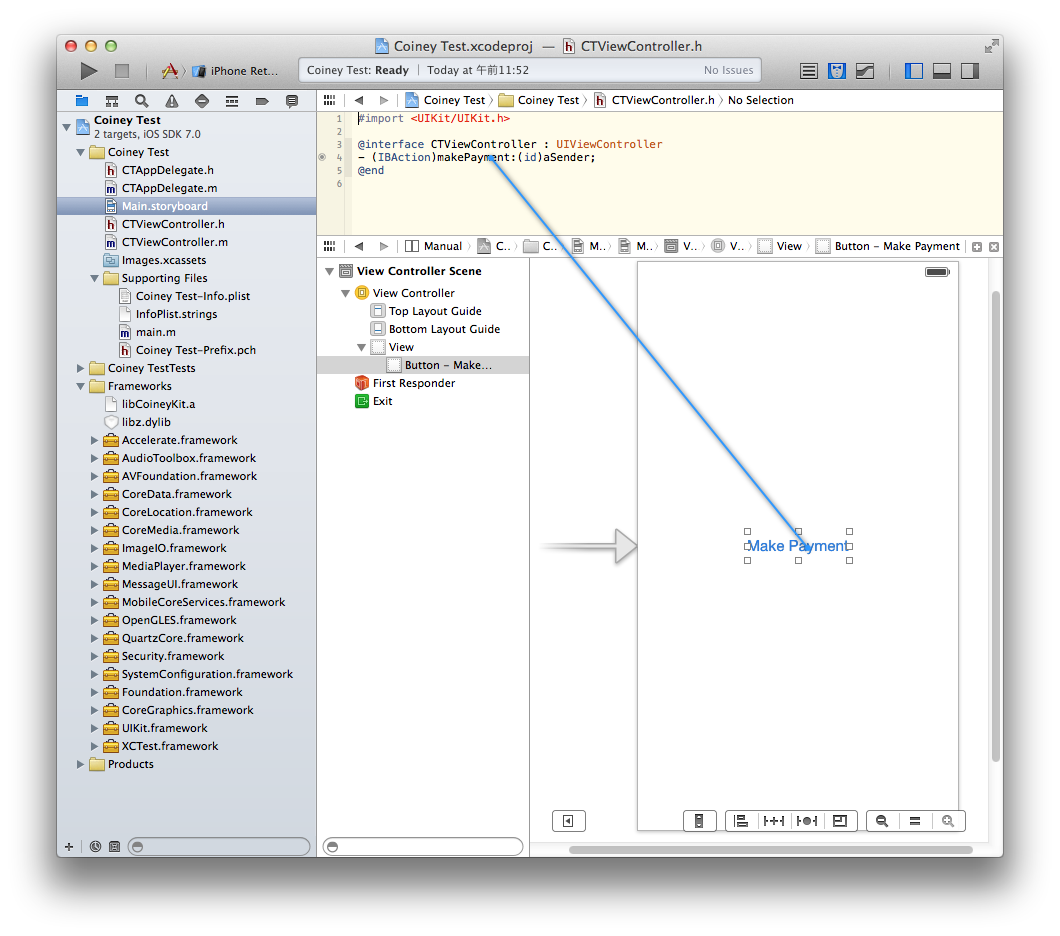
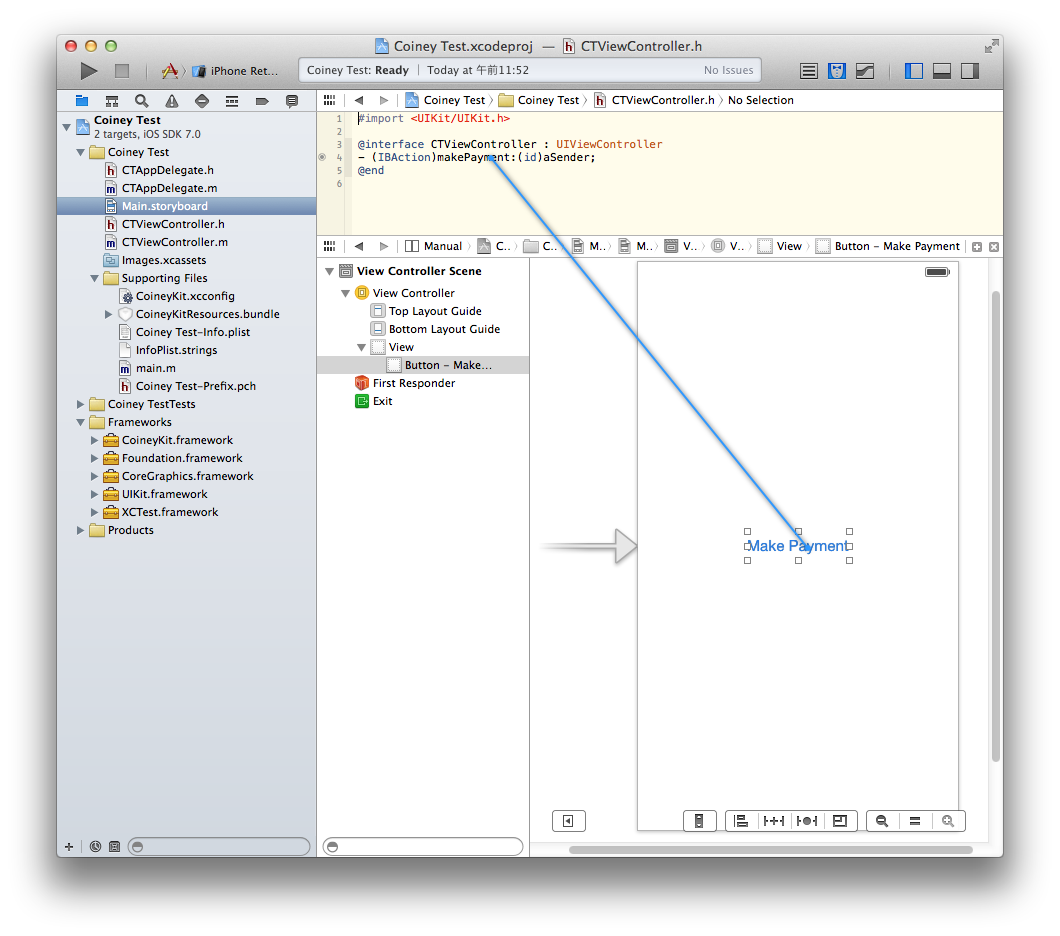
Updated readme for CoineyKit.framework

Changed region(s): [[0.0623, 0.3098, 0.2802, 0.8365]]

diff --git a/README.md b/README.md
@@ -21,14 +21,11 @@ Now that your project is created, copy the contents of `CoineyKit.zip` to your p
 
 ![Folder hierarchy](readme_images/folder-hierarchy.png)
 
-The next step is to add `CoineyKitResources.bundle`, `libCoineyKit.a` and the frameworks used by CoineyKit to your project. 
+The next step is to add `CoineyKitResources.bundle` and `CoineyKit.framework` to your project.
 
-![Required frameworks](readme_images/required-frameworks.png)
+![Build settings](readme_images/build-settings.png)
 
-Now you're almost ready to make use of CoineyKit, you just need to update your target's build settings to match the below screenshots:
-
-![Linker flags](readme_images/ldflags.png)
-![Search paths](readme_images/searchpaths.png)
+Now you're almost ready to make use of CoineyKit, you just need to update your build settings with CoineyKit.xcconfig, as shown in the above screenshot.
 
 
 ## Making our first payment
@@ -44,7 +41,7 @@ Open up `CTViewController.h` and make it look like:
 And `CTViewController.m`:
 
     #import "CTViewController.h"
-    #import <CoineyKit/CoineyKit.h>
+    @import CoineyKit;
     
     @implementation CTViewController
     
@@ -59,7 +56,7 @@ And `CTViewController.m`:
 
 This is all that's required for the most basic use case. We just need to hook up a button to our `makePayment:` method, and we're ready to go.
 
-![Search paths](readme_images/action-connection.png)
+![Action connection](readme_images/action-connection.png)
 
 Now if we run the application it should appear like below:
 
@@ -74,7 +71,7 @@ When embedding CoineyKit in your application, you'll most likely want to tell Co
     #import <UIKit/UIKit.h>
     
     @interface CTViewController : UIViewController
-    @property IBOutlet UITextField *productNameField, *productPriceField;  // ←
+    @property IBOutlet UITextField *productNameField, *productPriceField;
     
     - (IBAction)makePayment:(id)aSender;
     @end
@@ -89,14 +86,14 @@ When embedding CoineyKit in your application, you'll most likely want to tell Co
     - (IBAction)makePayment:(id)aSender
     {
         // Create a line item to pre-populate the Coiney controller with.
-        NSString *name = _productNameField.text;                          // ←
-        int price = [_productPriceField.text intValue];                   // ←
+        NSString *name = _productNameField.text;
+        int price = [_productPriceField.text intValue];
         
-        CYLineItem *lineItem = [CYLineItem itemWithAmount:price                       // ←
-                                                 currency:CYCurrencyJPY name:name];   // ←
+        CYLineItem *lineItem = [CYLineItem itemWithAmount:price
+                                                 currency:CYCurrencyJPY name:name];
         
         // Create an instance of the Coiney payment controller.
-        CYCoineyViewController * coineyController = [[CYCoineyViewController alloc] initWithLineItems:@[lineItem]]; // ←
+        CYCoineyViewController * coineyController = [[CYCoineyViewController alloc] initWithLineItems:@[lineItem]];
         // Present it on top of the current controller.
         [self presentViewController:coineyController animated:YES completion:nil];
     }
@@ -114,48 +111,7 @@ To know the status of the transaction you simply make yourself the delegate of y
 `CTViewController.m`:
 
     #import "CTViewController.h"
-    #import <CoineyKit/CoineyKit.h>
-    
-    @interface CTViewController () <CYCoineyViewControllerDelegate>  // ←
-    @end                                                             // ←
-    
-    @implementation CTViewController
-    
-    - (IBAction)makePayment:(id)aSender
-    {
-        // Create a line item to pre-populate the Coiney controller with.
-        NSString *name = _productNameField.text;
-        int price = [_productPriceField.text intValue];
-        
-        CYLineItem *lineItem = [CYLineItem itemWithAmount:price
-                                                 currency:CYCurrencyJPY name:name];
-        
-        // Create an instance of the Coiney payment controller.
-        CYCoineyViewController * coineyController = [[CYCoineyViewController alloc] initWithLineItems:@[lineItem]];
-        coineyController.delegate = self; // ←
-        // Present it on top of the current controller.
-        [self presentViewController:coineyController animated:YES completion:nil];
-    }
-    
-    - (void)coineyViewController:(CYCoineyViewController *)aController  // ←
-          didCompleteTransaction:(CYTransaction *)aTransaction          // ←
-    {
-        NSLog(@"Completed transaction!: %@", aTransaction);             // ←
-    }
-    
-    - (void)coineyViewControllerDidCancel:(CYCoineyViewController *)aController  // ←
-    {
-        NSLog(@"Cancelled payment.");                                            // ←
-    }
-
-## Look up a transaction
-
-You can use a transaction's unique identifier to query Coiney for the corresponding CYTransaction object.
-
-`CTViewController.m`:
-
-    #import "CTViewController.h"
-    #import <CoineyKit/CoineyKit.h>
+    @import CoineyKit;
     
     @interface CTViewController () <CYCoineyViewControllerDelegate>
     @end
@@ -182,15 +138,109 @@ You can use a transaction's unique identifier to query Coiney for the correspond
           didCompleteTransaction:(CYTransaction *)aTransaction
     {
         NSLog(@"Completed transaction!: %@", aTransaction);
+    }
+    
+    - (void)coineyViewControllerDidCancel:(CYCoineyViewController *)aController
+    {
+    	aController dismissViewControllerAnimated:YES completion:nil];
+        NSLog(@"Cancelled payment.");
+    }
+
+## Look up a transaction
+
+You can use a transaction's unique identifier to query Coiney for the corresponding CYTransaction object.
+
+`CTViewController.m`:
+
+    #import "CTViewController.h"
+    @import CoineyKit;
+    
+    @interface CTViewController () <CYCoineyViewControllerDelegate>
+    @end
+    
+    @implementation CTViewController
+    
+    - (IBAction)makePayment:(id)aSender
+    {
+        // Create a line item to pre-populate the Coiney controller with.
+        NSString *name = _productNameField.text;
+        int price = [_productPriceField.text intValue];
         
-        CYTransactionLookupBlock completionBlock = ^(id<CYTransaction> t, NSError *err) {
+        CYLineItem *lineItem = [CYLineItem itemWithAmount:price
+                                                 currency:CYCurrencyJPY name:name];
+        
+        // Create an instance of the Coiney payment controller.
+        CYCoineyViewController * coineyController = [[CYCoineyViewController alloc] initWithLineItems:@[lineItem]];
+        coineyController.delegate = self;
+        // Present it on top of the current controller.
+        [self presentViewController:coineyController animated:YES completion:nil];
+    }
+    
+    - (void)coineyViewController:(CYCoineyViewController *)aController
+          didCompleteTransaction:(CYTransaction *)aTransaction
+    {
+        NSLog(@"Completed transaction!: %@", aTransaction);
+
+        CYLookUpTransaction(aTransaction.identifier, ^(id<CYTransaction> t, NSError *err) {
         	if(t)
         		NSLog(@"Transaction found: %@", t);
         	else
         		NSLog(@"Transaction not found: %@", err);
-        };
-        CYLookUpTransaction(aTransaction.identifier, completionBlock);
+        });
     }
+    
+## Show the details of a transaction
+
+You can use a transaction ID to bring up its detail view.  The view can contain a refund button if refunding should be allowed.
+
+`CTViewController.m`:
+
+    #import "CTViewController.h"
+    @import CoineyKit;
+    
+    @interface CTViewController () <CYCoineyViewControllerDelegate>
+    @end
+    
+    @implementation CTViewController
+    
+    - (IBAction)makePayment:(id)aSender
+    {
+        // Create a line item to pre-populate the Coiney controller with.
+        NSString *name = _productNameField.text;
+        int price = [_productPriceField.text intValue];
+        
+        CYLineItem *lineItem = [CYLineItem itemWithAmount:price
+                                                 currency:CYCurrencyJPY name:name];
+        
+        // Create an instance of the Coiney payment controller.
+        CYCoineyViewController * coineyController = [[CYCoineyViewController alloc] initWithLineItems:@[lineItem]];
+        coineyController.delegate = self;
+        // Present it on top of the current controller.
+        [self presentViewController:coineyController animated:YES completion:nil];
+    }
+    
+    - (void)coineyViewController:(CYCoineyViewController *)aController
+          didCompleteTransaction:(id<CYTransaction>)aTransaction
+    {
+        NSLog(@"Completed transaction: %@", aTransaction);
+    
+        [aController dismissViewControllerAnimated:YES completion:nil];
+        CYLookUpTransaction(aTransaction.identifier, ^(id<CYTransaction> aTransaction, NSError *aError) {
+            if(aTransaction) {
+                CYTransactionViewController *transactionViewController =
+                    [CYTransactionViewController transactionViewControllerWithTransaction:aTransaction
+                                                   allowRefunding:YES]; // Change to NO to hide the refund button
+                // Add a navigation controller to your project to make this work
+                [self.navigationController pushViewController:transactionViewController animated:YES];
+            }
+            else
+                NSLog(@"Transaction not found: %@", aError);
+        });
+    }
+
+After making a payment and tapping Done, you will see a `CYTransactionViewController` showing the details of the transaction.  (You'll need to add a navigation controller to your test app to run the above snippet.)
+
+![App screenshot](readme_images/simshot3.png)
 
 ## And that's it!
 
